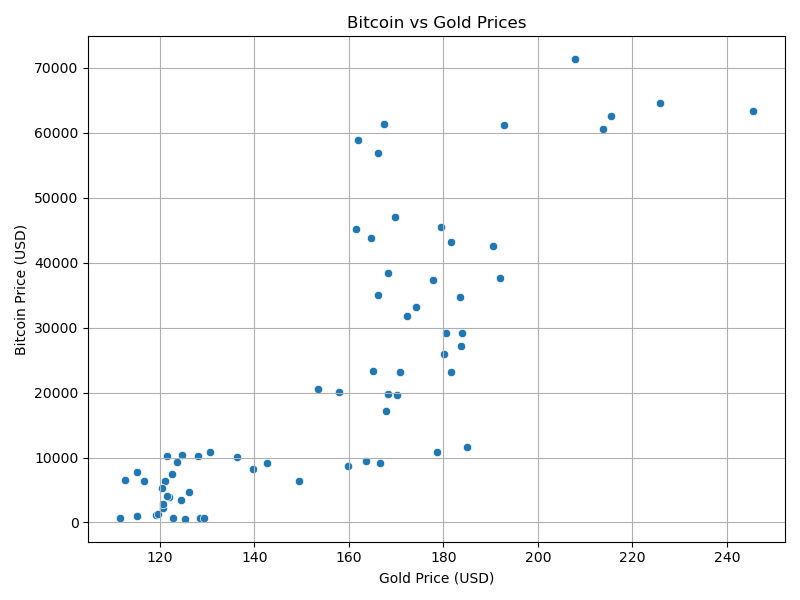
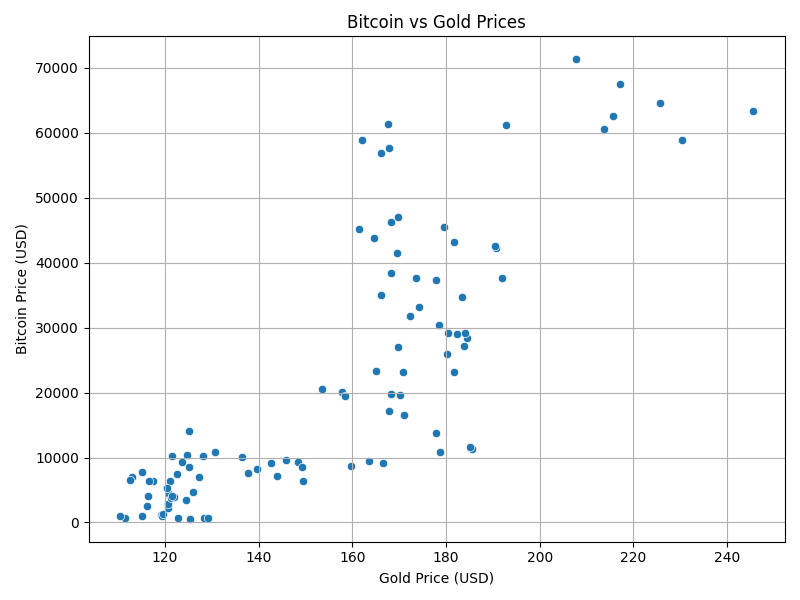
just fix formatting of calculation output and then done

diff --git a/calculations.py b/calculations.py
@@ -5,37 +5,30 @@ import seaborn as sns
 import numpy as np
 
 # === CONNECT TO DATABASE AND FETCH DATA ===
-# Allows to connect to the SQLite database
 conn = sqlite3.connect("financial_data.db")
 cursor = conn.cursor()
 
-# SQL query to join all datasets on the same date
-# Assumes all datasets have 100 aligned monthly datapoints
+# Fetch data from Combined_Prices table
 query = """
-SELECT
-    btc.date AS date,
-    btc.price AS btc_price,
-    sp.close AS sp500_price,
-    gold.close AS gold_price,
-    oil.price AS oil_price,
-    cpi.cpi_value AS cpi_value
-FROM Bitcoin_Prices btc
-JOIN SP500_Dates d ON btc.date = d.date
-JOIN SP500_Prices sp ON sp.date_id = d.id
-JOIN Gold_Prices gold ON btc.date = gold.date
-JOIN Oil_Prices oil ON btc.date = oil.date
-JOIN CPI_Data cpi ON btc.date = cpi.date
-ORDER BY btc.date ASC
+SELECT 
+    date, 
+    btc_price, 
+    sp500_price, 
+    gold_close, 
+    oil_price, 
+    cpi_value,
+    gold_change
+FROM Combined_Prices
+ORDER BY date ASC
 """
 cursor.execute(query)
 rows = cursor.fetchall()
-conn.close()
 
 # === PARSE RAW SQL DATA INTO LISTS ===
-dates, btc, sp, gold, oil, cpi = [], [], [], [], [], []
+dates, btc, sp, gold, oil, cpi, gold_changes = [], [], [], [], [], [], []
 
 for row in rows:
-    dates.append(datetime.strptime(row[0], "%Y-%m-%d"))  # convert string to datetime
+    dates.append(datetime.strptime(row[0], "%Y-%m"))
     btc.append(row[1])
     sp.append(row[2])
     gold.append(row[3])
@@ -43,34 +36,30 @@ for row in rows:
     cpi.append(row[5])
 
 
-# === WRITE FIRST 20 PRICE/CPI RATIO ROWS TO FILE ===
-with open("calculations_output.txt", "w") as f:
-    f.write("Price-to-CPI Ratios (First 20 Rows):\n")
-    for i in range(20):
-        f.write(f"{dates[i].strftime('%Y-%m-%d')}: BTC/CPI={btc_to_cpi[i]:.2f}, SP500/CPI={sp_to_cpi[i]:.2f}, Gold/CPI={gold_to_cpi[i]:.2f}, Oil/CPI={oil_to_cpi[i]:.2f}\n")
-
 # === CALCULATE PRICE-TO-CPI RATIOS ===
-# Each value divided by CPI to get inflation-adjusted price
 btc_to_cpi = [b / c for b, c in zip(btc, cpi)]
 sp_to_cpi = [s / c for s, c in zip(sp, cpi)]
 gold_to_cpi = [g / c for g, c in zip(gold, cpi)]
 oil_to_cpi = [o / c for o, c in zip(oil, cpi)]
 
-# === CALCULATE CORRELATION MATRIX ===
-# Using numpy to compute correlations between raw asset prices and CPI
+# === WRITE FIRST 20 PRICE/CPI RATIO ROWS ===
+with open("calculations_output.txt", "a") as f:
+    f.write("Price-to-CPI Ratios (First 20 Rows):\n")
+    for i in range(min(20, len(dates))):
+        f.write(f"{dates[i].strftime('%Y-%m')}: BTC/CPI={btc_to_cpi[i]:.2f}, SP500/CPI={sp_to_cpi[i]:.2f}, Gold/CPI={gold_to_cpi[i]:.2f}, Oil/CPI={oil_to_cpi[i]:.2f}\n")
+
+# === CORRELATION MATRIX ===
 data_matrix = np.array([btc, sp, gold, oil, cpi])
 corr_matrix = np.corrcoef(data_matrix)
 labels = ['btc', 'sp500', 'gold', 'oil', 'cpi']
 
-# Write correlation matrix to file
 with open("calculations_output.txt", "a") as f:
     f.write("\nCorrelation Matrix:\n")
     f.write('\t' + '\t'.join(labels) + '\n')
     for i, row in enumerate(corr_matrix):
         f.write(labels[i] + '\t' + '\t'.join(f"{val:.2f}" for val in row) + '\n')
 
-# === GRAPH 1: LOG SCALE - NORMALIZED PRICE/CPI RATIOS ===
-# Normalize each ratio to start at 100, then use log scale to show trends more clearly
+# === GRAPH: Normalized Price-to-CPI (Log) ===
 plt.figure(figsize=(12, 6))
 plt.plot(dates, [x / btc_to_cpi[0] * 100 for x in btc_to_cpi], label='Bitcoin / CPI')
 plt.plot(dates, [x / sp_to_cpi[0] * 100 for x in sp_to_cpi], label='S&P500 / CPI')
@@ -78,7 +67,7 @@ plt.plot(dates, [x / gold_to_cpi[0] * 100 for x in gold_to_cpi], label='Gold / C
 plt.plot(dates, [x / oil_to_cpi[0] * 100 for x in oil_to_cpi], label='Oil / CPI')
 plt.xlabel("Date")
 plt.ylabel("Log Normalized Price-to-CPI Ratio (Base = 100)")
-plt.yscale("log")  # log scale to show detail for smaller assets
+plt.yscale("log")
 plt.title("Normalized Price-to-CPI Ratios Over Time (Log Scale)")
 plt.legend()
 plt.grid(True, which='both', linestyle='--', linewidth=0.5)
@@ -86,8 +75,7 @@ plt.tight_layout()
 plt.savefig("price_to_cpi_ratio_log.png")
 plt.close()
 
-# === GRAPH 2: BITCOIN VS GOLD SCATTERPLOT ===
-# Show relationship between BTC and gold prices
+# === GRAPH: Bitcoin vs Gold ===
 plt.figure(figsize=(8, 6))
 sns.scatterplot(x=gold, y=btc)
 plt.xlabel("Gold Price (USD)")
@@ -98,7 +86,7 @@ plt.tight_layout()
 plt.savefig("btc_vs_gold_scatter.png")
 plt.close()
 
-# === CALCULATE MONTHLY RETURNS (AS PERCENT CHANGES) ===
+# === RETURNS & VOLATILITY ===
 returns = {
     "btc": [],
     "sp": [],
@@ -106,23 +94,19 @@ returns = {
     "oil": []
 }
 
-# Compute percent change from previous month for each asset
 for i in range(1, len(dates)):
     returns["btc"].append((btc[i] - btc[i - 1]) / btc[i - 1])
     returns["sp"].append((sp[i] - sp[i - 1]) / sp[i - 1])
     returns["gold"].append((gold[i] - gold[i - 1]) / gold[i - 1])
     returns["oil"].append((oil[i] - oil[i - 1]) / oil[i - 1])
 
-# === AVERAGE MONTHLY RETURNS ===
+# Average Returns
 average_returns = {k: np.mean(v) * 100 for k, v in returns.items()}
-
-# Write to file
 with open("calculations_output.txt", "a") as f:
     f.write("\nAverage Monthly Returns (%):\n")
     for asset, avg in average_returns.items():
         f.write(f"{asset}: {avg:.2f}%\n")
 
-# === GRAPH 3: AVERAGE RETURNS BAR CHART ===
 plt.figure(figsize=(8, 6))
 plt.bar(average_returns.keys(), average_returns.values())
 plt.title("Average Monthly Returns (%)")
@@ -132,8 +116,7 @@ plt.tight_layout()
 plt.savefig("avg_monthly_returns.png")
 plt.close()
 
-# === GRAPH 4: CORRELATION HEATMAP ===
-# Visual display of correlations between assets and CPI
+# Correlation Heatmap
 plt.figure(figsize=(8, 6))
 sns.heatmap(corr_matrix, xticklabels=labels, yticklabels=labels, annot=True, cmap='coolwarm')
 plt.title("Correlation Heatmap Between Assets")
@@ -141,16 +124,13 @@ plt.tight_layout()
 plt.savefig("correlation_heatmap.png")
 plt.close()
 
-# === VOLATILITY (STANDARD DEVIATION OF MONTHLY RETURNS) ===
+# Volatility
 volatility = {k: np.std(v) * 100 for k, v in returns.items()}
-
-# Write to file
 with open("calculations_output.txt", "a") as f:
     f.write("\nVolatility of Monthly Returns (%):\n")
     for asset, vol in volatility.items():
         f.write(f"{asset}: {vol:.2f}%\n")
 
-# === GRAPH 5: VOLATILITY BAR CHART ===
 plt.figure(figsize=(8, 6))
 plt.bar(volatility.keys(), volatility.values(), color='orange')
 plt.title("Volatility of Monthly Returns (%)")
@@ -158,4 +138,39 @@ plt.ylabel("Standard Deviation (%)")
 plt.grid(True)
 plt.tight_layout()
 plt.savefig("volatility_bar_chart.png")
+plt.close()
+
+
+# === CONNECT TO DATABASE AND FETCH GOLD CHANGE DATA ===
+conn = sqlite3.connect("financial_data.db")
+cursor = conn.cursor()
+
+# Get count of up/down months using Gold_Change.label
+cursor.execute("""
+    SELECT gc.label, COUNT(*) 
+    FROM Combined_Prices cp
+    JOIN Gold_Change gc ON cp.gold_change = gc.id
+    GROUP BY gc.label
+""")
+
+# Store results in a dictionary
+change_counts = {"down": 0, "up": 0}
+for label, count in cursor.fetchall():
+    change_counts[label.lower()] = count
+
+conn.close()
+
+# === WRITE TO FILE ===
+with open("calculations_output.txt", "a") as f:
+    f.write("\nGold Price Movement Counts:\n")
+    f.write(f"Months Gold Went UP:   {change_counts['up']}\n")
+    f.write(f"Months Gold Went DOWN: {change_counts['down']}\n")
+
+# === GRAPH: Gold Price Movement Bar Chart ===
+plt.figure(figsize=(6, 5))
+plt.bar(["Down", "Up"], [change_counts["down"], change_counts["up"]], color=["red", "green"])
+plt.title("Monthly Gold Price Movement")
+plt.ylabel("Number of Months")
+plt.tight_layout()
+plt.savefig("gold_up_down_chart.png")
 plt.close()
